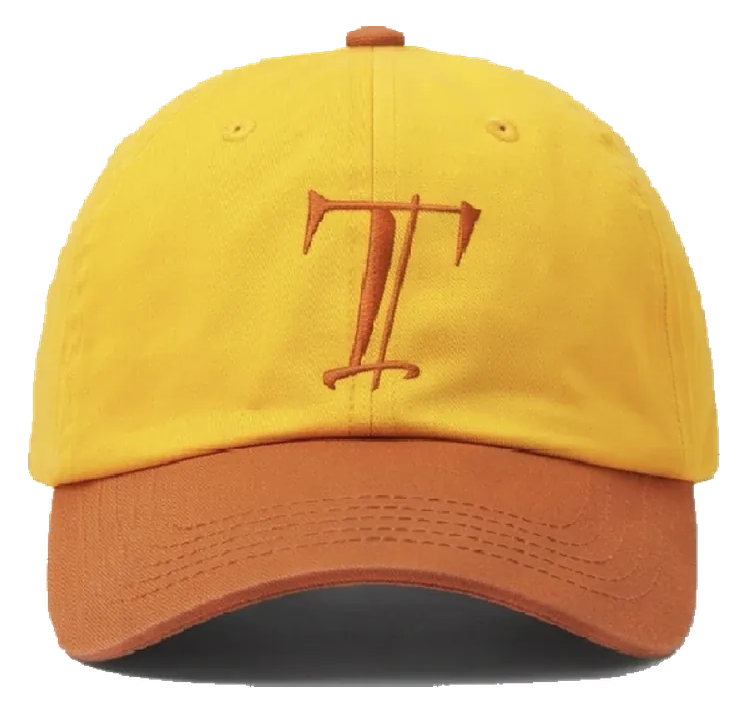
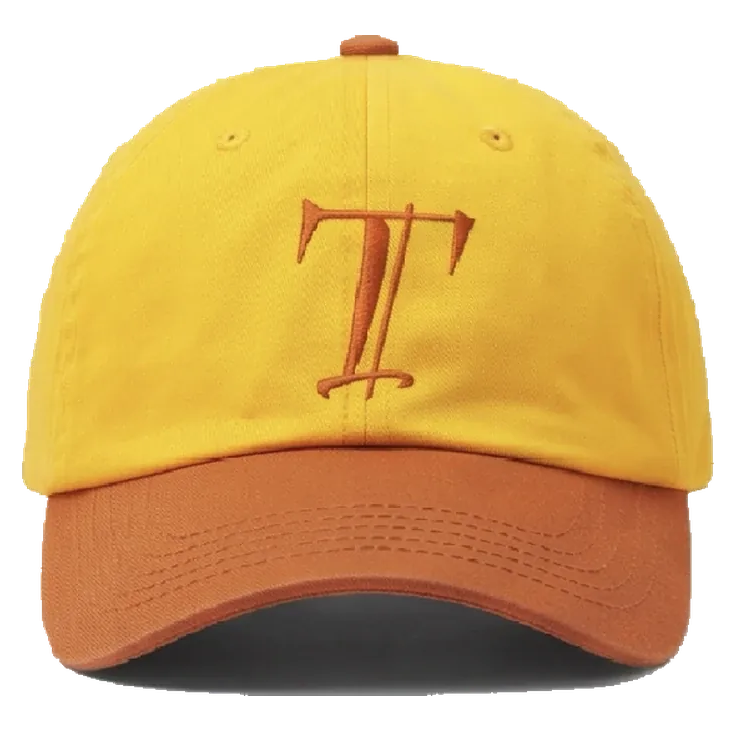
fix(threads): match cap cutout bounds to unchanged hat references

diff --git a/scripts/threads_cap_padding_trim_20261025.py b/scripts/threads_cap_padding_trim_20261025.py
@@ -1,38 +1,67 @@
-"""Tighten transparent padding on owner-provided cap photographs, losslessly.
-No resampling, color changes, synthetic imagery, or CSS scaling.
-Run from repository root after source assets are present.
+"""Refit ONLY owner-provided f2/hat-01/hat-04 gallery canvas margins to the
+median unchanged hat canvas occupancy per camera view.
+
+No photo replacement, no resampling, no CSS zoom. All non-transparent pixels
+and every alpha value are retained at their exact original resolution.
+Idempotent: reference occupied fractions are calculated from unchanged hats.
 """
 from pathlib import Path
+from statistics import median
 from PIL import Image
-from hashlib import sha256
 import json
-ROOT = Path(__file__).resolve().parents[1] / "site/threads/assets/products"
-IDS = ("f2","hat-01","hat-04")
-PARTS = ("cover","front","profile","rear")
-items = []
-for pid in IDS:
-    for part in PARTS:
-        path = ROOT / pid / f"{part}.webp"
-        before = path.read_bytes()
-        image = Image.open(path).convert("RGBA")
-        bounds = image.getchannel("A").getbbox()
-        if not bounds:
-            raise ValueError(f"Empty alpha channel: {path}")
-        l,t,r,b = bounds
-        w,h = r-l,b-t
-        # ~4% transparent gutter *on each side* protects the full crown,
-        # brim, top button and real shadow, while matching existing cap crops.
-        pad_x=max(10,round(w*.04))
-        pad_y=max(10,round(h*.04))
-        crop=(max(0,l-pad_x),max(0,t-pad_y),
-              min(image.width,r+pad_x),min(image.height,b+pad_y))
-        if (crop[2]-crop[0])<300 or (crop[3]-crop[1])<250:
-            raise AssertionError(f"Unexpectedly small crop: {pid}/{part}")
-        trimmed=image.crop(crop)
-        if trimmed.getchannel("A").getbbox() is None: raise AssertionError("Alpha unexpectedly removed")
-        # WebP lossless guarantees original decoded pixel colors/opacity do not change.
-        trimmed.save(path,"WEBP",lossless=True,method=6,exact=True)
-        items.append({"product":pid,"view":part,"originalSize":list(image.size),"originalBounds":list(bounds),
-         "newSize":list(trimmed.size),"originalSHA256":sha256(before).hexdigest(),
-         "newSHA256":sha256(path.read_bytes()).hexdigest()})
-print(json.dumps(items,indent=2))
+
+ROOT=Path(__file__).resolve().parents[1]/"site/threads/assets/products"
+TARGETS=("f2","hat-01","hat-04")
+REFERENCES=("hat-02","hat-03","hat-05","hat-06")
+VIEWS=("cover","front","profile","rear")
+
+def occupancy(path):
+    im=Image.open(path).convert("RGBA")
+    bbox=im.getchannel("A").getbbox()
+    if bbox is None: raise ValueError("Empty alpha: "+str(path))
+    l,t,r,b=bbox
+    return ((r-l)/im.width,(b-t)/im.height)
+
+reference_fractions={
+    view:tuple(median(occupancy(ROOT/ref/(view+".webp"))[axis]
+                       for ref in REFERENCES) for axis in (0,1))
+    for view in VIEWS
+}
+report=[]
+for pid in TARGETS:
+    for view in VIEWS:
+        src=ROOT/pid/(view+".webp")
+        im=Image.open(src).convert("RGBA")
+        old_size=im.size
+        bbox=im.getchannel("A").getbbox()
+        l,t,r,b=bbox
+        tight=im.crop(bbox)
+        target_x,target_y=reference_fractions[view]
+        new_w=max(tight.width,round(tight.width/target_x))
+        new_h=max(tight.height,round(tight.height/target_y))
+        x=(new_w-tight.width)//2
+        y=(new_h-tight.height)//2
+        result=Image.new("RGBA",(new_w,new_h),(0,0,0,0))
+        result.paste(tight,(x,y))
+        result.save(src,format="WEBP",lossless=True,method=6,exact=True)
+        reread=Image.open(src).convert("RGBA")
+        actual_box=reread.getchannel("A").getbbox()
+        if actual_box is None or reread.getchannel("A").crop(actual_box).tobytes()!=tight.getchannel("A").tobytes():
+            raise AssertionError(f"Alpha changed: {src}")
+        # Ensure all visible source RGB values are exact. Hidden RGB where
+        # alpha=0 need not be preserved, as they are invisible.
+        import numpy as np
+        before=np.asarray(tight,dtype=np.uint8)
+        after=np.asarray(reread.crop(actual_box),dtype=np.uint8)
+        assert before.shape==after.shape, src
+        visible=before[:,:,3]>0
+        if not np.array_equal(before[:,:,:3][visible],after[:,:,:3][visible]):
+            raise AssertionError(f"Visible owner photograph changed: {src}")
+        frac=occupancy(src)
+        for a,b in zip(frac,reference_fractions[view]):
+            if abs(a-b)>0.004: raise AssertionError(f"Reference mismatch: {src} {frac} vs {reference_fractions[view]}")
+        report.append({"product":pid,"view":view,"from":old_size,"to":reread.size,
+                       "reference_subject_fill":tuple(round(x,4) for x in reference_fractions[view]),
+                       "result_subject_fill":tuple(round(x,4) for x in frac),
+                       "visible_pixels_and_alpha":"exact"})
+print(json.dumps({"reference_fractions":reference_fractions,"assets":report},indent=2))

diff --git a/docs/threads/CAP-SCALE-DUFFEL-SQUARE-20261025.md b/docs/threads/CAP-SCALE-DUFFEL-SQUARE-20261025.md
@@ -5,8 +5,8 @@
 ## Cap visual scale
 - Assets changed only under `site/threads/assets/products/{f2,hat-01,hat-04}/` (four files each: cover/front/profile/rear).
 - Previous files were 1100×1100 with substantial transparent gutters and presented smaller than unchanged cap products (`hat-02`, `hat-03`, `hat-05`, `hat-06`).
-- Each cutout was bounded using the original alpha channel plus a restrained **4% gutter** on every side to retain brim, top button, shadows and any semitransparent fringes.
-- The images were **not resampled, recolored or recreated**. They were saved as lossless WebP and alpha/visible-pixel compared against the Git source: **all visible RGB values and all alpha values match** (12/12). Transparent pixels' hidden RGB payload is allowed to differ without changing appearance.
+- Follow-up refinement: each of the four camera-angle cutouts is bounded using the original alpha channel then centered in a transparent canvas **matching the median nontransparent silhouette occupancy of unchanged reference hats** (`hat-02`, `hat-03`, `hat-05`, `hat-06`). This replaces the earlier one-size-fits-all 4% margin. Covers now fill **~97% of canvas width**, compared with ~92.6% before refinement, while retaining brim, top button, shadows and semitransparent fringes.
+- The images were **not resampled, recolored or recreated**. They were saved as lossless WebP and alpha/visible-pixel compared against their immediate source: **all visible RGB values and all alpha values match** (12/12). Transparent pixels' hidden RGB payload is allowed to differ without changing appearance.
 - Assets are not cropped by CSS and existing Homepage, Shop, Product Detail and thumbnail `object-fit:contain` continue unchanged.
 - Reproduction script: `scripts/threads_cap_padding_trim_20261025.py`. Previous versions remain recoverable in Git history.
 
@@ -18,7 +18,7 @@
 - Original `f3` photographs, colors, gallery order and thumbnails are unchanged.
 
 ## QA
-- Source tests: **48/48** (existing 46 + two dedicated targeted regression tests).
+- Source tests: **50/50** (including two focused sneaker contracts and two cap/duffel contracts).
 - Chrome 1440 and 390 / Linux WebKit iPad-sized 820×1180: **89/89** visual-layout tests passing; compares new cap Shop-card image scale against unchanged `hat-02`, tests all twelve cap gallery views, each Duffel angle/1:1 frame, surrounding info position and unrelated gallery isolation.
 - Real physical iPad Safari keyboard/toolbar and rendering were not directly exercised: **WebKit iPad viewport emulation, not hardware testing**.
 - T01 `46c96964f6757b3a99f9e7ee873fdffaca1f55ff` and T02 `f4813a8e6bb01d03f51a2a2b487d068fd95d719b` untouched. Approved T04 and static T03 untouched. No `SaamVR/EcomCMS` modifications.
